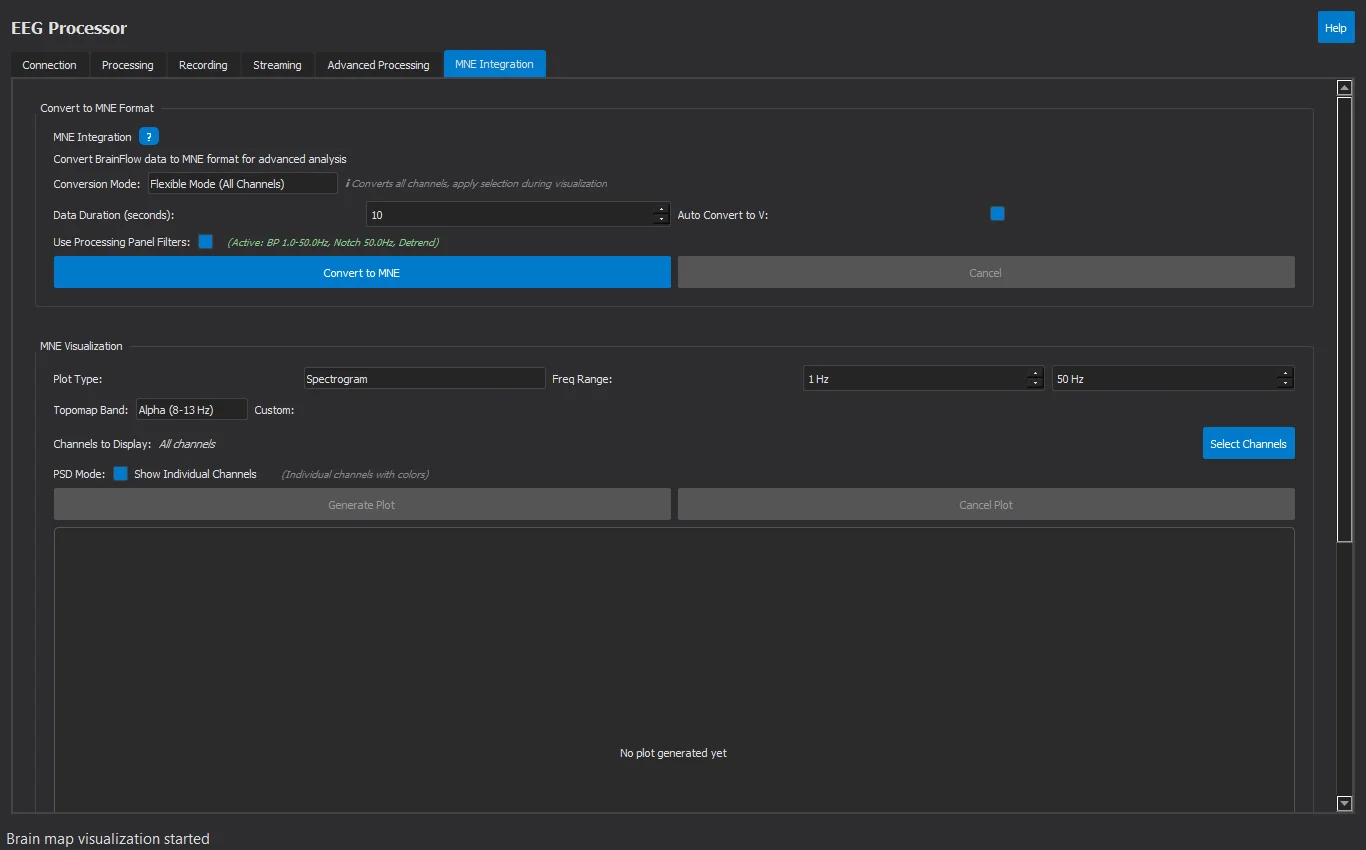
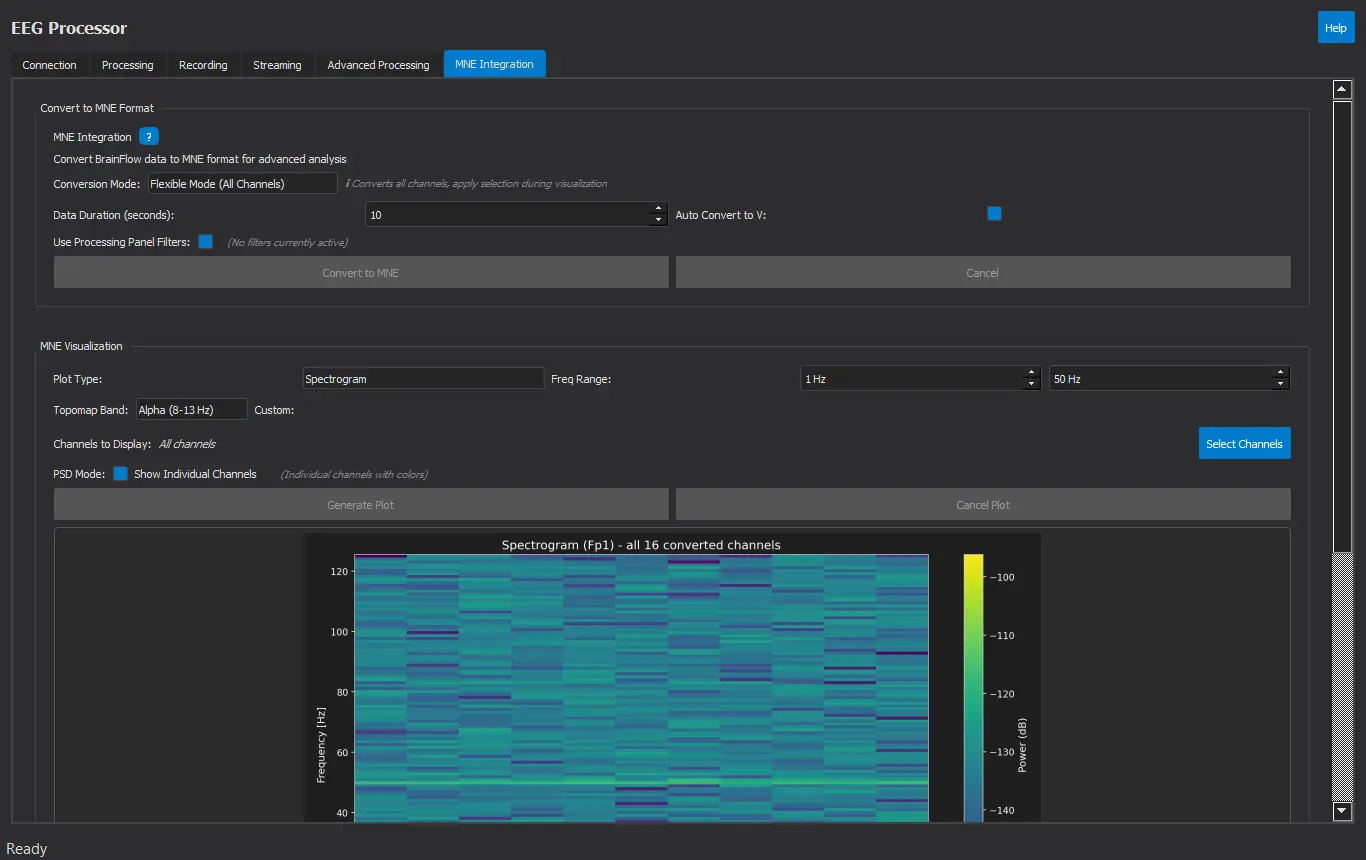
Add rendered MNE spectrogram, PSD, and topomap visualizations

diff --git a/README.md b/README.md
@@ -18,29 +18,37 @@ Developed as a **Final Degree Project (TFG)** in **Computer Engineering (Computi
 
 All user interfaces run out of the box and can be tested without physical hardware using the built-in synthetic board engine.
 
-### 1. EEG Biosignal Processing & Analysis
-| Multi-Channel Waveform Oscilloscope | Digital Filtering & DSP Controls |
+### 1. EEG Biosignal Acquisition & Real-Time DSP
+| Multi-Channel Waveform Oscilloscope | Digital Filtering & Frequency Tuning |
 |:---:|:---:|
-| <img src="assets/screenshots/gui_eeg_waves.webp" width="460" alt="EEG Multi-signal Visualizer"> | <img src="assets/screenshots/gui_dsp_filters.webp" width="460" alt="EEG Filters and Processing Panel"> |
-| Real-time 16-channel EEG oscilloscope streaming (`SYNTHETIC_BOARD`) | Bandpass (Butterworth/Chebyshev/Bessel), Notch 50Hz, detrending & metrics |
-| **Brain Topomap (10-20 System)** | **MNE-Python & Spectrogram** |
-| <img src="assets/screenshots/gui_brain_topomap.webp" width="460" alt="10-20 Brain Topomap Quality Visualizer"> | <img src="assets/screenshots/gui_mne_spectrogram.webp" width="460" alt="MNE Spectrogram and PSD Panel"> |
-| 2D electrode scalp layout with dynamic signal quality color indicators | Real-time continuous spectrogram, Power Spectral Density (PSD) & raw MNE |
-| **Artifact Rejection (FastICA)** | **Hardware Connection & Presets** |
-| <img src="assets/screenshots/gui_fastica_analysis.webp" width="460" alt="FastICA Component Decomposition"> | <img src="assets/screenshots/gui_eeg_processor.webp" width="460" alt="EEG Connection Management"> |
-| Independent Component Analysis (ICA) in isolated worker processes | Headset device selection, baudrate configuration, and stream initialization |
+| <img src="assets/screenshots/gui_eeg_waves.webp" width="460" alt="EEG Multi-channel Waveform Oscilloscope"> | <img src="assets/screenshots/gui_dsp_filters.webp" width="460" alt="EEG Digital Filters and DSP Panel"> |
+| Real-time 16-channel EEG streaming (`SYNTHETIC_BOARD`) with adjustable time scales | IIR bandpass (Butterworth, Chebyshev, Bessel), Notch 50Hz, detrending & SNR metrics |
+| **Brain Topomap (10-20 Electrode System)** | **Artifact Rejection (FastICA Decomposition)** |
+| <img src="assets/screenshots/gui_brain_topomap.webp" width="460" alt="10-20 Brain Topomap Quality Visualizer"> | <img src="assets/screenshots/gui_fastica_analysis.webp" width="460" alt="FastICA Component Decomposition"> |
+| 2D electrode scalp layout with dynamic impedance & signal quality color indicators | Independent Component Analysis (ICA) offloaded to background worker processes |
 
-### 2. Behavioral HID Ingestion & Peripherals
+### 2. Advanced Scientific Analysis with MNE-Python
+The framework bridges raw BrainFlow ring-buffers directly into `MNE-Python` scientific data structures (`mne.io.RawArray`), enabling high-fidelity spectral and time-frequency transformations:
+
+| Time-Frequency Spectrogram (0.5 – 50 Hz) | Multi-Channel Welch Power Spectral Density (PSD) |
+|:---:|:---:|
+| <img src="assets/screenshots/gui_mne_spectrogram.webp" width="460" alt="MNE Time-Frequency Spectrogram"> | <img src="assets/screenshots/gui_mne_psd.webp" width="460" alt="MNE Welch Power Spectral Density"> |
+| Short-Time Fourier Transform (STFT) spectrogram with Viridis colormap and dB power scale | Individual multi-channel Welch PSD curves across 1–50 Hz with channel legends |
+| **Scalp Band-Power Topographical Mapping** | **High-Resolution Spectral Render** |
+| <img src="assets/screenshots/gui_mne_topomap.webp" width="460" alt="MNE Band Power Topomap"> | <img src="assets/screenshots/mne_spectrogram_render.webp" width="460" alt="MNE Spectrogram High-Resolution Render"> |
+| Multi-electrode spatial band power (Alpha 8–13 Hz, Beta, Theta) with plasma colormap | Direct publication-ready scientific plot exported from the MNE visualizer worker |
+
+### 3. Behavioral HID Ingestion & Gamepads
 | Sony DualShock 4 Controller (SDL2) | Keyboard & Mouse Capture |
 |:---:|:---:|
 | <img src="assets/screenshots/gui_input_ps4.webp" width="460" alt="DualShock 4 Visualizer"> | <img src="assets/screenshots/gui_input_collector.webp" width="460" alt="Keyboard and Mouse Input Collector"> |
-| Interactive gamepad visualizer with analog stick tracking & button overlays | Real-time keydown/keyup listener, mouse position deltas, and live logging |
+| Interactive gamepad visualizer with analog stick tracking & button state overlays | Real-time keydown/keyup listener, mouse delta logging, and microsecond timestamps |
 
-### 3. Remote Streaming & Terminal Environments
+### 4. Remote Streaming & Terminal Environments
 | Dynamic Web API Explorer (FastAPI) | Interactive Terminal CLI (Rich & Typer) |
 |:---:|:---:|
 | <img src="assets/screenshots/web_api_explorer.webp" width="460" alt="FastAPI Web Explorer"> | <img src="assets/screenshots/cli_interactive_terminal.webp" width="460" alt="Interactive CLI Terminal"> |
-| In-browser interactive dashboard with WebSocket streaming and dark mode | Headless REPL shell and live status tables with Rich telemetry |
+| Dark-mode browser dashboard with WebSocket telemetry and dynamic API testing | Headless REPL shell with Rich telemetry tables for remote server deployments |
 
 ---
 
